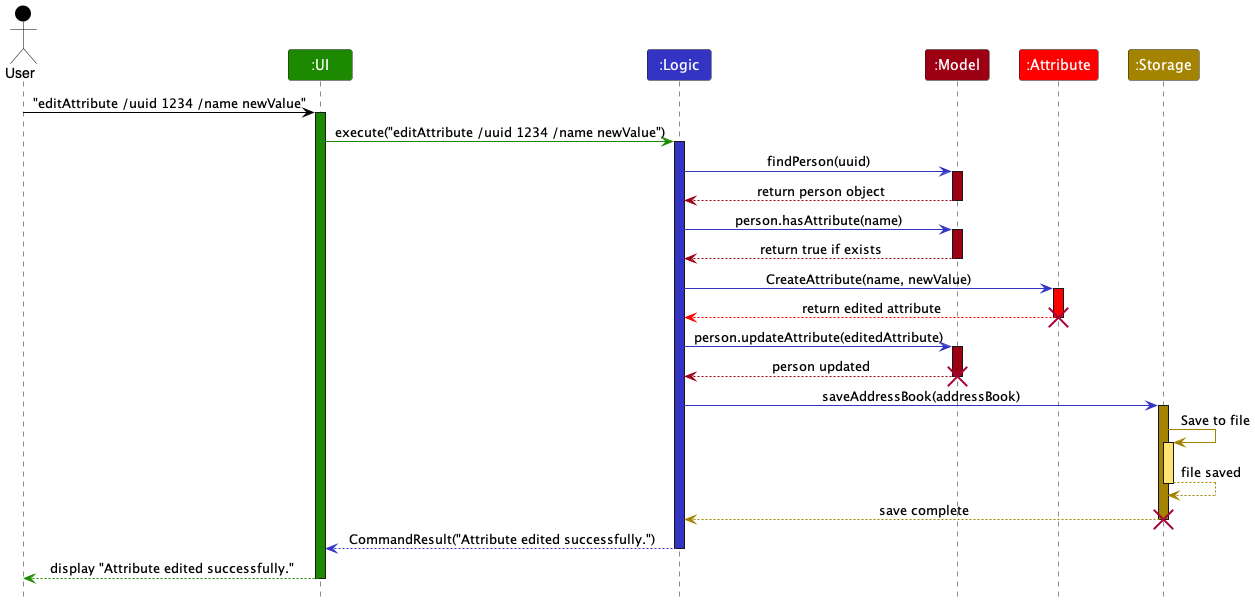
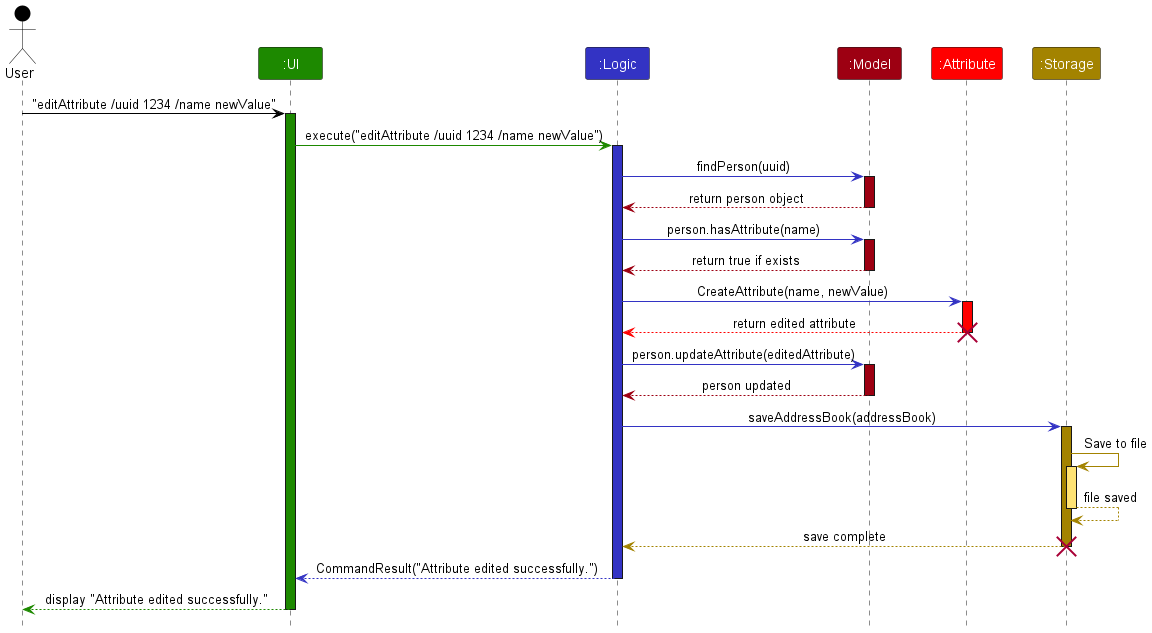
Remove extra destroy model indicator in DG

diff --git a/docs/DeveloperGuide.md b/docs/DeveloperGuide.md
@@ -308,7 +308,7 @@ The following sequence diagram shows how the `AddAttribute` shows how the `AddAt
 
 ![AttributeAdditionSequenceDiagram](images/AttributeAdditionSequenceDiagram.png)
 
-<div markdown="span" class="alert alert-info">:information_source: **Note:** The lifeline for `Attribute`, `Model` and `Storage` should end at the destroy marker (X) but due to a limitation of PlantUML, the lifeline reaches the end of diagram.
+<div markdown="span" class="alert alert-info">:information_source: **Note:** The lifeline for `Attribute` and `Storage` should end at the destroy marker (X) but due to a limitation of PlantUML, the lifeline reaches the end of diagram.
 
 </div>
 
@@ -375,7 +375,7 @@ The following sequence diagram illustrates how the `EditAttribute` command funct
 
 ![AttributeEditSequenceDiagram](images/AttributeEditSequenceDiagram.png)
 
-<div markdown="span" class="alert alert-info">:information_source: **Note:** The lifeline for `Attribute`, `Model` and `Storage` should end at the destroy marker (X) but due to a limitation of PlantUML, the lifeline reaches the end of diagram.
+<div markdown="span" class="alert alert-info">:information_source: **Note:** The lifeline for `Attribute` and `Storage` should end at the destroy marker (X) but due to a limitation of PlantUML, the lifeline reaches the end of diagram.
 
 </div>
 
@@ -443,7 +443,7 @@ The following sequence diagram illustrates how the `DeleteAttribute` command fun
 
 ![AttributeDeleteSequenceDiagram](images/DeleteAttributeSequenceDiagram.png)
 
-<div markdown="span" class="alert alert-info">:information_source: **Note:** The lifeline for `Attribute`, `Model` and `Storage` should end at the destroy marker (X) but due to a limitation of PlantUML, the lifeline reaches the end of diagram.
+<div markdown="span" class="alert alert-info">:information_source: **Note:** The lifeline for `Attribute` and `Storage` should end at the destroy marker (X) but due to a limitation of PlantUML, the lifeline reaches the end of diagram.
 
 </div>
 
@@ -504,7 +504,7 @@ The following sequence diagram illustrates how the `Find` command functions:
 
 ![FindSequenceDiagram](images/FindSequenceDiagram.png)
 
-<div markdown="span" class="alert alert-info">:information_source: **Note:** The lifeline for `AddressBookParser`, `FindCommand`, `NameContainsKeywordsPredicate` and `Model` should end at the destroy marker (X) but due to a limitation of PlantUML, the lifeline reaches the end of diagram.
+<div markdown="span" class="alert alert-info">:information_source: **Note:** The lifeline for `AddressBookParser`, `FindCommand` and `NameContainsKeywordsPredicate` should end at the destroy marker (X) but due to a limitation of PlantUML, the lifeline reaches the end of diagram.
 
 </div>
 
